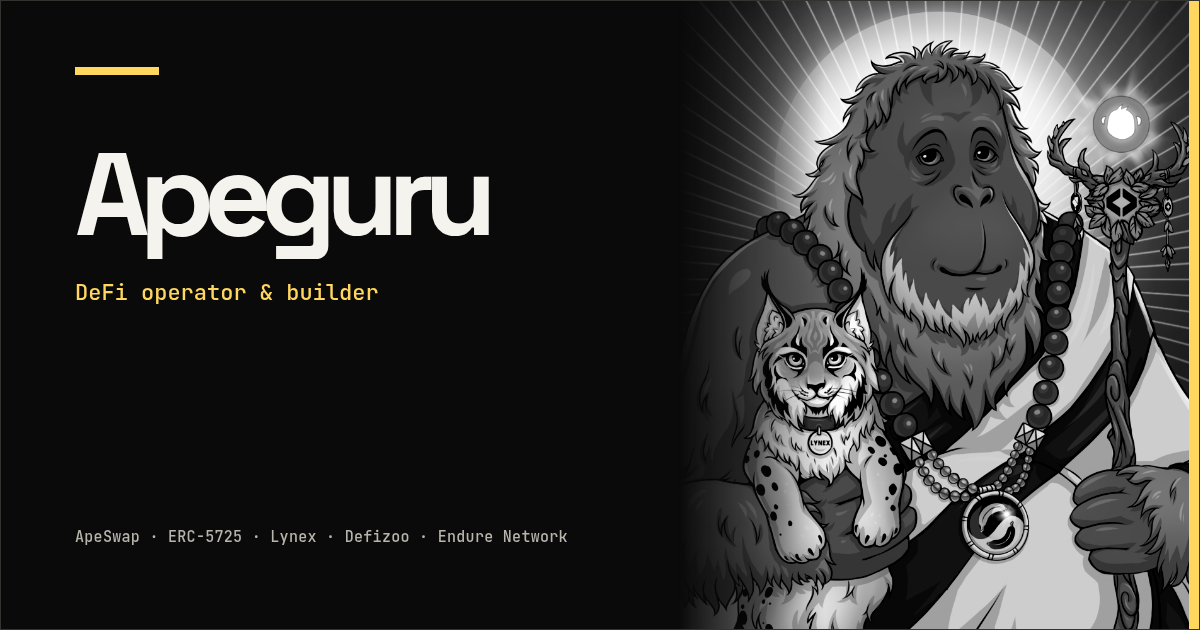
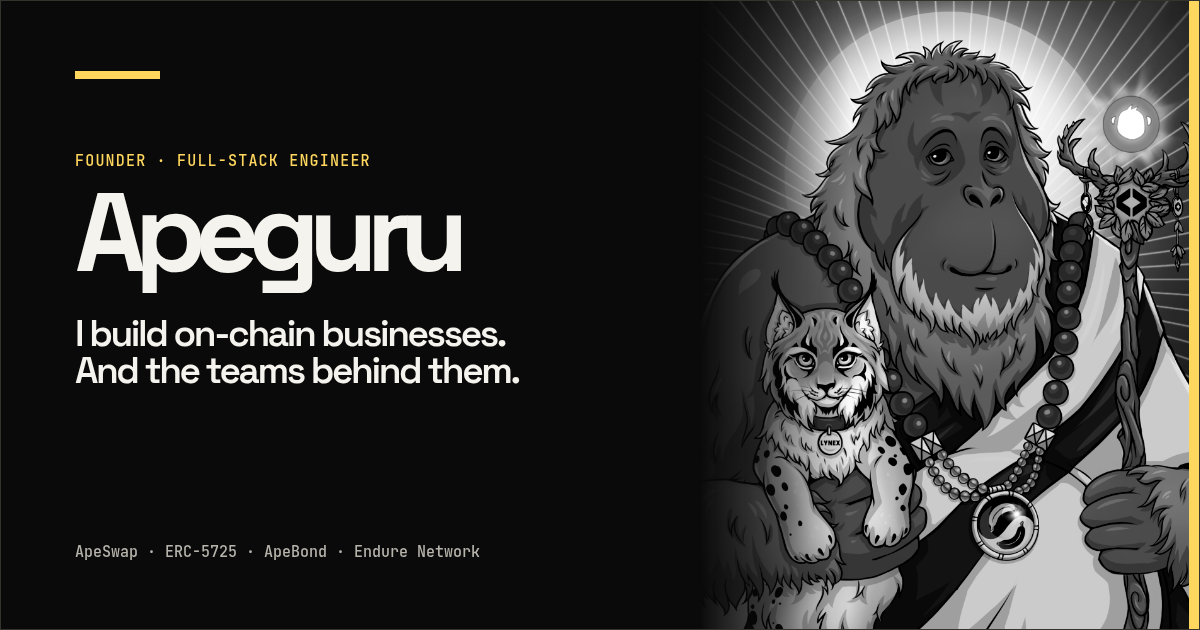
feat: launch founder profile redesign

diff --git a/index.html b/index.html
@@ -3,105 +3,39 @@
 <head>
   <meta charset="utf-8">
   <meta name="viewport" content="width=device-width, initial-scale=1">
-  <title>Apeguru — DeFi operator &amp; builder</title>
-  <meta name="description" content="DeFi operator and builder. ApeSwap co-founder, ERC-5725 author, Lynex CTO, Chief Bullish Officer at Defizoo. Now building Endure Network.">
+  <title>Apeguru | Founder &amp; Full-stack engineer</title>
+  <meta name="description" content="Apeguru is a founder and full-stack engineer. Co-founder of ApeSwap, co-author of ERC-5725, and co-founder and CTO of Endure Network.">
   <meta name="theme-color" content="#0A0A0A">
   <link rel="icon" type="image/svg+xml" href="assets/images/favicon.svg">
   <link rel="icon" type="image/png" sizes="32x32" href="assets/images/favicon-32.png">
   <link rel="preconnect" href="https://fonts.googleapis.com">
   <link rel="preconnect" href="https://fonts.gstatic.com" crossorigin>
-  <link href="https://fonts.googleapis.com/css2?family=JetBrains+Mono:wght@400;500;600&amp;family=Space+Grotesk:wght@400;500;600;700&amp;display=swap" rel="stylesheet">
-  <meta property="og:title" content="Apeguru — DeFi operator &amp; builder">
-  <meta property="og:description" content="DeFi operator and builder. ApeSwap co-founder, ERC-5725 author, Lynex CTO, Chief Bullish Officer at Defizoo. Now building Endure Network.">
-  <meta property="og:type" content="website">
-  <meta property="og:url" content="https://apeguru.dev/">
-  <meta property="og:image" content="https://apeguru.dev/assets/images/og-image.png">
-  <meta name="twitter:card" content="summary_large_image">
-  <meta name="twitter:title" content="Apeguru — DeFi operator &amp; builder">
-  <meta name="twitter:description" content="DeFi operator and builder. ApeSwap co-founder, ERC-5725 author, Lynex CTO, Chief Bullish Officer at Defizoo. Now building Endure Network.">
-  <meta name="twitter:image" content="https://apeguru.dev/assets/images/og-image.png">
+  <link href="https://fonts.googleapis.com/css2?family=JetBrains+Mono:wght@400;500&amp;family=Space+Grotesk:wght@400;500;600;700&amp;display=swap" rel="stylesheet">
+  <meta property="og:title" content="Apeguru — Founder &amp; Full-stack engineer">
+  <meta property="og:description" content="Founder and full-stack engineer. Co-founder of ApeSwap, co-author of ERC-5725, and now building Endure Network.">
+  <meta property="og:type" content="website"><meta property="og:url" content="https://apeguru.dev/"><meta property="og:image" content="https://apeguru.dev/assets/images/og-image.png">
+  <meta name="twitter:card" content="summary_large_image"><meta name="twitter:title" content="Apeguru — Founder &amp; Full-stack engineer"><meta name="twitter:description" content="Founder and full-stack engineer. Co-founder of ApeSwap, co-author of ERC-5725, and now building Endure Network."><meta name="twitter:image" content="https://apeguru.dev/assets/images/og-image.png">
   <link rel="stylesheet" href="assets/css/style.css">
+  <link rel="stylesheet" href="assets/css/typography.css">
 </head>
 <body>
   <a class="skip-link" href="#main">Skip to content</a>
-  <header class="site-header shell">
-    <a class="wordmark" href="#top" aria-label="Apeguru home">apeguru<span>.</span>dev</a>
-    <a class="header-contact" href="https://t.me/apegurus" target="_blank" rel="noopener">Telegram <span aria-hidden="true">↗</span></a>
-  </header>
-
+  <header class="site-header shell"><a class="wordmark" href="#top" aria-label="Apeguru home">apeguru<span>.</span>dev</a><a class="header-email" href="mailto:hello@apeguru.dev">hello@apeguru.dev <span aria-hidden="true">↗</span></a></header>
   <main id="main">
     <section class="hero shell" id="top" aria-labelledby="hero-title">
-      <div class="hero-copy">
-        <p class="eyebrow">DEFI OPERATOR · BUILDER · SINCE 2017</p>
-        <h1 id="hero-title">Apeguru</h1>
-        <p class="hero-subline">I turn complex problems into simple, beautiful, intuitive businesses.<span class="cursor" aria-hidden="true">_</span></p>
-        <div class="hero-actions" aria-label="Contact Apeguru">
-          <a class="button button-primary" href="https://t.me/apegurus" target="_blank" rel="noopener">Telegram <span aria-hidden="true">↗</span></a>
-          <a class="button button-quiet" href="mailto:hello@apeguru.dev">Email <span aria-hidden="true">↗</span></a>
-        </div>
-      </div>
-      <div class="avatar-frame"><img src="assets/images/apeguru.png" alt="Apeguru"></div>
+      <div class="hero-copy"><p class="kicker">Founder · Full-stack engineer</p><h1 id="hero-title">Apeguru</h1><p class="hero-statement">I build on-chain businesses.<br>And the teams behind them.</p><p class="hero-body">I’m a founder and full-stack engineer with a background in marketing. I co-founded ApeSwap, co-authored ERC-5725, and built the first version of ApeBond’s bond protocol.</p><p class="hero-followup">Today, I’m focused on Endure Network as co-founder and CTO.</p><div class="hero-actions"><a class="button button-primary" href="#work">Explore my work <span aria-hidden="true">↓</span></a><a class="button button-quiet" href="mailto:hello@apeguru.dev">Get in touch <span aria-hidden="true">↗</span></a></div></div>
+      <figure class="portrait"><img src="assets/images/apeguru.png" alt="Illustration of Apeguru with a lynx"></figure>
     </section>
-
-    <section class="now" aria-label="Now">
-      <div class="shell"><p><span>NOW /</span> Co-founder &amp; CTO, <a href="http://endure.network/" target="_blank" rel="noopener">Endure Network</a> (risk intelligence on Bittensor) · Chief Bullish Officer, <a href="https://www.defizoo.fi/" target="_blank" rel="noopener">Defizoo</a> · advisor &amp; angel across DeFi.</p></div>
-    </section>
-
-    <section class="section shell" aria-labelledby="track-record">
-      <div class="section-heading"><p class="eyebrow">01 / HISTORY</p><h2 id="track-record">Track record</h2></div>
-      <ol class="timeline">
-        <li class="reveal"><time datetime="2017">2017</time><p>Started out investing and learning about ETH, played with GPU mining on the side. Marketing degree in hand; coder by passion, entrepreneur by heart. The plan was always to stitch the two together.</p></li>
-        <li class="reveal"><time datetime="2020">2020</time><p>Went all in: full-stack blockchain and Solidity developer.</p></li>
-        <li class="reveal"><time datetime="2021">2021</time><p><strong>Co-founder, ApeSwap.</strong> Second only to PancakeSwap during DeFi summer.</p><p class="timeline-stat">$1B TVL · $20B+ volume · $18M revenue</p></li>
-        <li class="reveal"><time datetime="2021">2021</time><p><strong>Liquid Collectibles.</strong> NFT-Fi experiments.</p></li>
-        <li class="reveal"><time datetime="2022">2022</time><p>Authored <a href="https://eips.ethereum.org/EIPS/eip-5725" target="_blank" rel="noopener">ERC-5725</a>, the Transferable Vesting NFT standard (now Final). Built the first version of <a href="https://ape.bond" target="_blank" rel="noopener">ApeBond</a>'s bond protocol on top of it, then handed it to the team as I moved on to new ventures. Still around to support and advise.</p></li>
-        <li class="reveal"><time datetime="2024">2024</time><p><strong>CTO, <a href="https://www.lynex.fi" target="_blank" rel="noopener">Lynex</a>.</strong> A DEX purpose-built as Linea's liquidity engine, with automated liquidity management and real incentive alignment.</p></li>
-        <li class="reveal"><time datetime="2025">2025</time><p><strong>Chief Bullish Officer, <a href="https://www.defizoo.fi/" target="_blank" rel="noopener">Defizoo</a>.</strong> A family of on-chain protocols across 12+ networks.</p></li>
-        <li class="reveal"><time datetime="2026">2026</time><p><strong>Co-founder &amp; CTO, <a href="http://endure.network/" target="_blank" rel="noopener">Endure Network</a>.</strong> Risk intelligence on Bittensor.</p></li>
-      </ol>
-    </section>
-
-    <section class="section shell" aria-labelledby="ecosystem">
-      <div class="section-heading"><p class="eyebrow">02 / ECOSYSTEM</p><h2 id="ecosystem">Ecosystem</h2></div>
-      <div class="ecosystem-grid">
-        <a class="ecosystem-card" href="https://www.defizoo.fi/" target="_blank" rel="noopener"><img src="assets/images/logo-horizontal.svg" alt="Defizoo"><span>Defizoo <b aria-hidden="true">↗</b></span></a>
-        <a class="ecosystem-card" href="https://www.lynex.fi/" target="_blank" rel="noopener"><img src="assets/images/dapp-lynex.svg" alt="Lynex"><span>Lynex <b aria-hidden="true">↗</b></span></a>
-        <a class="ecosystem-card" href="https://www.vaultedge.fi" target="_blank" rel="noopener"><img src="assets/images/dapp-vaultedge.svg" alt="Vaultedge"><span>Vaultedge <b aria-hidden="true">↗</b></span></a>
-        <a class="ecosystem-card" href="https://ape.bond" target="_blank" rel="noopener"><img src="assets/images/dapp-apebond.svg" alt="ApeBond"><span>ApeBond <b aria-hidden="true">↗</b></span></a>
-        <a class="ecosystem-card" href="https://apeswap.finance" target="_blank" rel="noopener"><img src="assets/images/logo-horizontal-margins.webp" alt="ApeSwap"><span>ApeSwap <b aria-hidden="true">↗</b></span></a>
-      </div>
-    </section>
-
-    <section class="section shell" aria-labelledby="help">
-      <div class="section-heading"><p class="eyebrow">03 / HOW I HELP</p><h2 id="help">How I help</h2></div>
-      <div class="help-grid">
-        <article><h3>Build</h3><p>co-founder / CTO seats. Protocol design, team building, shipping.</p></article>
-        <article><h3>Advise</h3><p>DEX deployments, incentive design, go-to-market for DeFi teams.</p></article>
-        <article><h3>Angel</h3><p>early checks in teams building durable infrastructure.</p></article>
-      </div>
-    </section>
-
-    <section class="section shell principles" aria-labelledby="principles">
-      <div class="section-heading"><p class="eyebrow">04 / PRINCIPLES</p><h2 id="principles">Principles</h2></div>
-      <ul>
-        <li>Revenue over vanity.</li><li>Durable systems over hype cycles.</li><li>Lean, autonomous teams over headcount.</li><li>Authenticity over image management.</li><li>Own the hard moments.</li><li>Ship, verify, own it.</li>
-      </ul>
-    </section>
-
-    <section class="contact shell" aria-labelledby="contact">
-      <p class="eyebrow">05 / CONTACT</p>
-      <h2 id="contact">Contact</h2>
-      <div class="contact-links">
-        <a href="https://t.me/apegurus" target="_blank" rel="noopener">Telegram <span>@apegurus</span><b aria-hidden="true">↗</b></a>
-        <a href="mailto:hello@apeguru.dev">Email <span>hello@apeguru.dev</span><b aria-hidden="true">↗</b></a>
-        <a href="https://x.com/apeguru" target="_blank" rel="noopener">X <span>@apeguru</span><b aria-hidden="true">↗</b></a>
-        <a href="https://github.com/Apegurus" target="_blank" rel="noopener">GitHub <span>Apegurus</span><b aria-hidden="true">↗</b></a>
-      </div>
-    </section>
+    <section class="focus shell" aria-labelledby="focus-title"><div class="focus-mark" aria-hidden="true"></div><div class="focus-copy"><p class="kicker">Current focus</p><h2 id="focus-title">Now building Endure Network</h2></div><div class="focus-detail"><p>Financial risk models should earn trust through results. At Endure Network, we’re building infrastructure that lets them compete and measures them against real outcomes.</p><a class="text-link" href="https://endure.network/" target="_blank" rel="noopener">Explore Endure Network <span aria-hidden="true">↗</span></a><p class="affiliation">Alongside this, I’m Chief Bullish Officer at <a href="https://www.defizoo.fi/" target="_blank" rel="noopener">DefiZoo</a>, a family of on-chain protocols.</p></div></section>
+    <section class="work shell" id="work" aria-labelledby="work-title"><div class="section-intro"><p class="kicker">Selected work</p><h2 id="work-title">A few things I’m proud to have built.</h2></div><div class="work-list">
+      <article class="work-piece"><div class="work-title"><p class="work-label">Co-founder</p><h3><a href="https://apeswap.finance" target="_blank" rel="noopener">ApeSwap <span aria-hidden="true">↗</span></a></h3></div><div class="work-copy"><p>Co-founded ApeSwap and helped grow it into a major DeFi ecosystem.</p><dl class="metrics"><div><dt>$1B</dt><dd>peak TVL</dd></div><div><dt>$20B+</dt><dd>trading volume</dd></div><div><dt>$18M</dt><dd>revenue</dd></div></dl></div></article>
+      <article class="work-piece"><div class="work-title"><p class="work-label">Co-author · Protocol builder</p><h3><a href="https://eips.ethereum.org/EIPS/eip-5725" target="_blank" rel="noopener">ERC-5725 <span aria-hidden="true">↗</span></a><br><span>&amp; ApeBond</span></h3></div><div class="work-copy"><p>Co-authored ERC-5725, the finalized Ethereum standard for transferable vesting NFTs. Built the first version of <a href="https://ape.bond" target="_blank" rel="noopener">ApeBond’s bond protocol</a> using that standard, then handed development to the team. I remain involved as an adviser.</p><p class="metric-caption">ApeBond protocol totals</p><dl class="metrics metrics-two"><div><dt>150,000+</dt><dd>bonds sold</dd></div><div><dt>$30M+</dt><dd>bonded value</dd></div></dl></div></article>
+      <article class="work-piece"><div class="work-title"><p class="work-label">CTO</p><h3><a href="https://www.lynex.fi/" target="_blank" rel="noopener">Lynex <span aria-hidden="true">↗</span></a></h3></div><div class="work-copy"><p>Helped build Lynex as Linea’s liquidity engine, combining automated liquidity management with incentives designed to bring protocols and liquidity providers together.</p><dl class="metrics metrics-two"><div><dt><a href="https://defillama.com/protocol/lynex" target="_blank" rel="noopener">$10.2M <span aria-hidden="true">↗</span></a></dt><dd>cumulative protocol revenue</dd></div><div><dt title="Peak: $38,825,063 on June 10, 2024 UTC">$38.8M</dt><dd>peak TVL</dd></div></dl><p class="metric-note"><a href="https://defillama.com/protocol/lynex" target="_blank" rel="noopener">Source: DefiLlama</a>. Revenue includes swap fees and voting incentives distributed to token holders.</p></div></article>
+    </div></section>
+    <section class="leadership shell" aria-labelledby="leadership-title"><div><p class="kicker">Leadership</p><h2 id="leadership-title">Building beyond the code</h2></div><div class="leadership-copy"><p>I’ve helped scale a team from five to forty and navigate years of bear markets. Some of the people I build with today are the same people I came through those years with.</p><p>My work spans smart contracts, backend systems, and the applications people use. But building the product is only part of the job. Bringing together people you trust, and building something worth staying for, matters just as much to me.</p></div></section>
+    <section class="personal shell" aria-labelledby="personal-title"><div class="personal-art"><img src="assets/images/apeguru-1.png" alt="Apeguru illustration"></div><div class="personal-copy"><p class="kicker">Away from the keyboard</p><h2 id="personal-title">A life built around curiosity.</h2><p>I travel with a laptop and a second monitor. Away from them, you’ll usually find me training Muay Thai, hiking, or practicing yoga.</p><p>I studied marketing because I wanted to build businesses. Programming was a passion long before it became my work. I’ve spent my career bringing the two together.</p><p class="background-line">Exploring crypto since 2017. Building full-time as a blockchain developer since 2020.</p></div></section>
+    <section class="contact shell" aria-labelledby="contact-title"><p class="kicker">Contact</p><h2 id="contact-title">Always interested in meeting people building something worthwhile.</h2><div class="contact-bottom"><div><p>I also invest selectively in early-stage teams.</p></div><div class="contact-links"><a class="contact-email" href="mailto:hello@apeguru.dev">hello@apeguru.dev <span aria-hidden="true">↗</span></a><p><a href="https://t.me/apegurus" target="_blank" rel="noopener">Telegram</a><a href="https://x.com/apeguru" target="_blank" rel="noopener">X</a><a href="https://github.com/Apegurus" target="_blank" rel="noopener">GitHub</a></p></div></div></section>
   </main>
-
   <footer class="site-footer shell"><p>Technical business monkey.</p><p>© 2026.</p></footer>
-  <div class="mobile-contact"><a href="https://t.me/apegurus" target="_blank" rel="noopener">Telegram <span aria-hidden="true">↗</span></a><a href="mailto:hello@apeguru.dev">Email <span aria-hidden="true">↗</span></a></div>
-  <script src="assets/js/main.js"></script>
 </body>
 </html>

diff --git a/assets/css/style.css b/assets/css/style.css
@@ -1,1 +1,1 @@
-:root{--bg:#0a0a0a;--text:#f5f3ed;--muted:#b8b5ad;--line:#33332f;--accent:#ffd75e;--shell:1100px}*{box-sizing:border-box}html{scroll-behavior:smooth}body{margin:0;min-width:0;background:var(--bg);color:var(--text);font-family:"Space Grotesk",Arial,sans-serif;font-size:16px;line-height:1.55}.shell{width:min(calc(100% - 40px),var(--shell));margin-inline:auto}.skip-link{position:fixed;top:12px;left:12px;z-index:10;padding:8px 12px;background:var(--accent);color:#111;transform:translateY(-150%)}.skip-link:focus{transform:none}a{color:inherit;text-decoration:none}.site-header{height:75px;display:flex;align-items:center;justify-content:space-between;border-bottom:1px solid var(--line)}.wordmark{font-weight:700;letter-spacing:-.06em;font-size:1.3rem}.wordmark span{color:var(--accent)}.header-contact,.eyebrow,.now p,time,.timeline-stat{font-family:"JetBrains Mono",monospace;font-size:.68rem;letter-spacing:.04em}.header-contact{color:var(--muted);transition:color .2s}.header-contact:hover{color:var(--accent)}.hero{min-height:calc(100svh - 75px);padding:84px 0 74px;display:grid;gap:42px;align-items:center}.eyebrow{margin:0 0 14px;color:var(--accent);font-weight:500}.hero h1,h2,h3,p{margin-top:0}.hero h1{font-size:clamp(4.25rem,16vw,10rem);line-height:.82;letter-spacing:-.095em;margin-bottom:28px}.hero-subline{font-size:clamp(1.25rem,3.2vw,2rem);line-height:1.26;max-width:610px;letter-spacing:-.035em;margin-bottom:30px}.cursor{color:var(--accent);font-family:"JetBrains Mono",monospace;animation:blink 1s step-end infinite}.hero-actions{display:flex;flex-wrap:wrap;gap:10px}.button{font-family:"JetBrains Mono",monospace;font-size:.75rem;display:inline-flex;align-items:center;gap:12px;padding:13px 17px;border:1px solid var(--line);transition:.2s}.button-primary{background:var(--accent);border-color:var(--accent);color:#15130c}.button-primary:hover{background:#ffe58f}.button-quiet:hover{border-color:var(--accent);color:var(--accent)}.avatar-frame{width:min(68vw,380px);justify-self:end;position:relative;border:1px solid var(--line);background:#151515}.avatar-frame:before{content:"PROFILE / APEGURU";position:absolute;z-index:1;top:10px;left:10px;color:var(--accent);font:500 .58rem "JetBrains Mono",monospace;letter-spacing:.05em}.avatar-frame img{width:100%;display:block;mix-blend-mode:luminosity;filter:contrast(1.08)}.now{border-top:1px solid var(--line);border-bottom:1px solid var(--line);padding:19px 0}.now p{margin:0;line-height:1.7;color:var(--muted)}.now p span,.now a{color:var(--accent)}.now a{text-decoration:underline;text-underline-offset:3px}.section{padding:96px 0;border-bottom:1px solid var(--line)}.section-heading{margin-bottom:48px}.section h2,.contact h2{font-size:clamp(2.5rem,7vw,5.5rem);letter-spacing:-.075em;line-height:.9;margin:0}.timeline{padding:0;margin:0;list-style:none;border-left:1px solid var(--line)}.timeline li{position:relative;padding:0 0 42px 28px;display:grid;gap:10px}.timeline li:last-child{padding-bottom:0}.timeline li:before{content:"";position:absolute;width:8px;height:8px;border:1px solid var(--accent);border-radius:50%;background:var(--bg);left:-5px;top:7px}.timeline time{color:var(--accent)}.timeline p{margin:0;max-width:670px;color:var(--muted);font-size:1.05rem}.timeline strong,.timeline a{color:var(--text);font-weight:500}.timeline a{text-decoration:underline;text-decoration-color:var(--accent);text-underline-offset:3px}.timeline-stat{color:var(--accent)!important;font-size:.69rem!important}.ecosystem-grid{display:grid;grid-template-columns:repeat(2,minmax(0,1fr));gap:10px}.ecosystem-card{min-width:0;min-height:145px;padding:18px;border:1px solid var(--line);display:flex;flex-direction:column;justify-content:space-between;background:#101010;transition:transform .2s,border-color .2s}.ecosystem-card:hover{transform:translateY(-4px);border-color:var(--accent)}.ecosystem-card img{max-width:100%;max-height:47px;width:auto;height:auto;object-fit:contain;object-position:left center;filter:grayscale(1) brightness(1.5)}.ecosystem-card span{font:400 .68rem "JetBrains Mono",monospace;color:var(--muted)}.ecosystem-card b,.contact-links b{color:var(--accent);float:right}.help-grid{display:grid;gap:0;border-top:1px solid var(--line)}.help-grid article{padding:28px 0;border-bottom:1px solid var(--line)}.help-grid h3{font-size:1.65rem;letter-spacing:-.05em;margin-bottom:8px}.help-grid p{color:var(--muted);max-width:315px;margin-bottom:0}.principles ul{margin:0;padding:0;list-style:none;display:grid;gap:0}.principles li{padding:17px 0;border-bottom:1px solid var(--line);font-size:clamp(1.25rem,3vw,2.15rem);letter-spacing:-.04em}.principles li:before{content:"/ ";color:var(--accent);font-family:"JetBrains Mono",monospace}.contact{padding:110px 0 92px}.contact h2{max-width:750px;margin-bottom:54px}.contact-links{border-top:1px solid var(--line)}.contact-links a{display:grid;grid-template-columns:minmax(0,1fr) auto 20px;align-items:center;gap:9px;padding:16px 0;border-bottom:1px solid var(--line);font-size:1.08rem;transition:color .2s}.contact-links a:hover{color:var(--accent)}.contact-links span{font:400 .68rem "JetBrains Mono",monospace;color:var(--muted);overflow-wrap:anywhere}.site-footer{border-top:1px solid var(--line);padding:24px 0 88px;display:flex;justify-content:space-between;gap:15px;font:400 .68rem "JetBrains Mono",monospace;color:var(--muted)}.site-footer p{margin:0}.mobile-contact{position:fixed;z-index:5;right:0;bottom:0;left:0;display:grid;grid-template-columns:repeat(2,minmax(0,1fr));border-top:1px solid var(--line);background:rgba(10,10,10,.95);backdrop-filter:blur(12px)}.mobile-contact a{min-width:0;padding:15px 20px;font:500 .72rem "JetBrains Mono",monospace}.mobile-contact a:first-child{border-right:1px solid var(--line)}.mobile-contact span{color:var(--accent);float:right}:focus-visible{outline:2px solid var(--accent);outline-offset:4px}@keyframes blink{50%{opacity:0}}.reveal{opacity:0;transform:translateY(16px);transition:opacity .55s ease,transform .55s ease}.reveal.is-visible{opacity:1;transform:none}@media(min-width:700px){.shell{width:min(calc(100% - 72px),var(--shell))}.hero{grid-template-columns:1.4fr .6fr;gap:55px;padding:100px 0}.avatar-frame{width:min(28vw,350px)}.timeline li{grid-template-columns:120px minmax(0,1fr);gap:28px;padding-left:37px}.ecosystem-grid{grid-template-columns:repeat(4,minmax(0,1fr))}.ecosystem-card{min-height:175px}.help-grid{grid-template-columns:repeat(3,minmax(0,1fr))}.help-grid article{padding:30px 28px 30px 0}.help-grid article+article{padding-left:28px;border-left:1px solid var(--line)}.contact-links a{grid-template-columns:190px minmax(0,1fr) 20px}.site-footer{padding-bottom:28px}.mobile-contact{display:none}}@media(min-width:1000px){.hero{min-height:700px}.section{padding:130px 0}.section-heading{margin-bottom:64px}.contact{padding:145px 0 110px}}@media(prefers-reduced-motion:reduce){html{scroll-behavior:auto}.cursor{animation:none}.reveal{opacity:1;transform:none;transition:none}.ecosystem-card,.button{transition:none}}
+:root{--bg:#0a0a0a;--surface:#11110f;--text:#f5f3ed;--muted:#b7b4ac;--dim:#77756f;--line:#34332e;--accent:#ffd75e;--shell:1160px}*{box-sizing:border-box}html{scroll-behavior:smooth}body{margin:0;background:var(--bg);color:var(--text);font-family:"Space Grotesk",Arial,sans-serif;font-size:17px;line-height:1.58}.shell{width:min(calc(100% - 40px),var(--shell));margin-inline:auto}a{color:inherit;text-decoration:none}.skip-link{position:fixed;top:12px;left:12px;z-index:5;padding:8px 12px;background:var(--accent);color:#16140b;transform:translateY(-150%)}.skip-link:focus{transform:none}.site-header{height:76px;display:flex;align-items:center;justify-content:space-between;border-bottom:1px solid var(--line)}.wordmark{font-size:1.25rem;font-weight:700;letter-spacing:-.06em}.wordmark span,.header-email span,.text-link span{color:var(--accent)}.header-email{font:400 .72rem "JetBrains Mono",monospace;color:var(--muted);transition:color .2s}.header-email:hover,.text-link:hover{color:var(--accent)}.kicker,.work-label{font:500 .69rem "JetBrains Mono",monospace;letter-spacing:.08em;text-transform:uppercase;color:var(--accent);margin:0 0 16px}.hero{display:grid;gap:48px;padding:74px 0 82px}.hero h1,.hero h2,.hero h3,.hero p,h1,h2,h3,p{margin-top:0}.hero h1{margin-bottom:24px;font-size:clamp(4.1rem,16vw,9.2rem);line-height:.81;letter-spacing:-.1em}.hero-statement{max-width:690px;margin-bottom:25px;font-size:clamp(2rem,6.2vw,4.35rem);line-height:.98;letter-spacing:-.07em;font-weight:600}.hero-body{max-width:590px;margin-bottom:16px;color:var(--muted);font-size:1.08rem}.hero-followup{max-width:590px;margin-bottom:31px;font-size:1.08rem}.hero-actions{display:flex;flex-wrap:wrap;gap:10px}.button{display:inline-flex;align-items:center;gap:13px;padding:14px 18px;border:1px solid var(--line);font:500 .74rem "JetBrains Mono",monospace;transition:.2s}.button-primary{background:var(--accent);border-color:var(--accent);color:#17150d}.button-primary:hover{background:#ffe48d}.button-quiet:hover{border-color:var(--accent);color:var(--accent)}.portrait{margin:0;position:relative;width:min(100%,440px);justify-self:end;border:1px solid var(--line);background:#171717}.portrait:before{content:"";position:absolute;z-index:1;top:18px;left:-1px;width:45%;height:1px;background:var(--accent)}.portrait img{display:block;width:100%;filter:grayscale(1) contrast(1.05)}.focus{display:grid;gap:25px;padding:54px 0;border-top:1px solid var(--line);border-bottom:1px solid var(--line)}.focus-mark{width:8px;height:45px;background:var(--accent)}h2{font-size:clamp(2.35rem,7vw,5.25rem);line-height:.94;letter-spacing:-.075em;margin:0}.focus-detail{max-width:630px}.focus-detail>p:first-child{font-size:1.16rem;line-height:1.5;margin-bottom:24px}.text-link{font:500 .75rem "JetBrains Mono",monospace;text-decoration:underline;text-decoration-color:var(--accent);text-underline-offset:5px}.affiliation{margin:33px 0 0;padding-top:19px;border-top:1px solid var(--line);color:var(--muted);font-size:.94rem}.affiliation a{color:var(--text);text-decoration:underline;text-decoration-color:var(--accent);text-underline-offset:3px}.work{padding:82px 0;border-bottom:1px solid var(--line)}.section-intro{max-width:740px;margin-bottom:50px}.work-list{border-top:1px solid var(--line)}.work-piece{padding:34px 0;border-bottom:1px solid var(--line);display:grid;gap:24px}.work-title h3{margin:0;font-size:clamp(2.2rem,7vw,4.6rem);line-height:.9;letter-spacing:-.075em}.work-title h3 a{transition:color .2s}.work-title h3 a:hover,.work-copy a:hover{color:var(--accent)}.work-title h3 span{color:var(--muted)}.work-copy{max-width:570px;color:var(--muted)}.work-copy p{margin:0}.work-copy a{color:var(--text);text-decoration:underline;text-decoration-color:var(--accent);text-underline-offset:3px}.metrics{display:grid;grid-template-columns:repeat(3,1fr);gap:10px;margin:30px 0 0}.metrics div{padding-top:13px;border-top:2px solid var(--accent)}.metrics dt{font-size:clamp(1.55rem,5vw,2.2rem);font-weight:600;letter-spacing:-.06em}.metrics dd{margin:0;color:var(--dim);font:400 .64rem "JetBrains Mono",monospace}.leadership{display:grid;gap:38px;padding:82px 0;border-bottom:1px solid var(--line)}.leadership-copy{max-width:600px}.leadership-copy p{margin:0 0 22px;color:var(--muted);font-size:1.08rem}.leadership-copy p:last-child{margin-bottom:0;color:var(--text)}.personal{display:grid;gap:38px;padding:82px 0;border-bottom:1px solid var(--line)}.personal-art{order:2;width:min(74vw,360px);border:1px solid var(--line);background:var(--surface)}.personal-art img{display:block;width:100%;filter:grayscale(1) contrast(1.05)}.personal-copy{max-width:650px}.personal-copy h2{margin-bottom:30px}.personal-copy>p:not(.kicker){color:var(--muted);margin-bottom:20px;font-size:1.06rem}.personal-copy .background-line{margin-top:34px;padding-top:18px;border-top:1px solid var(--line);color:var(--text);font:400 .71rem "JetBrains Mono",monospace;line-height:1.75}.contact{padding:82px 0}.contact h2{max-width:920px;margin-bottom:48px}.contact-bottom{display:grid;gap:34px;padding-top:22px;border-top:1px solid var(--line)}.contact-bottom>div:first-child{max-width:450px;color:var(--muted)}.contact-email{display:inline-block;color:var(--accent);font-size:clamp(1.7rem,6vw,3.45rem);font-weight:500;letter-spacing:-.06em;overflow-wrap:anywhere}.contact-links p{display:flex;flex-wrap:wrap;gap:18px;margin:20px 0 0}.contact-links p a{color:var(--muted);font:400 .71rem "JetBrains Mono",monospace;text-decoration:underline;text-underline-offset:4px}.contact-links p a:hover{color:var(--accent)}.site-footer{display:flex;justify-content:space-between;gap:15px;padding:23px 0 34px;border-top:1px solid var(--line);color:var(--dim);font:400 .68rem "JetBrains Mono",monospace}.site-footer p{margin:0}:focus-visible{outline:2px solid var(--accent);outline-offset:4px}@media(min-width:700px){.shell{width:min(calc(100% - 72px),var(--shell))}.hero{grid-template-columns:minmax(0,1.22fr) minmax(270px,.78fr);align-items:center;padding:105px 0 110px;gap:60px}.portrait{width:100%}.focus{grid-template-columns:8px minmax(210px,.7fr) minmax(300px,1fr);align-items:start;padding:69px 0;gap:38px}.focus-mark{margin-top:3px}.work{padding:110px 0}.work-piece{grid-template-columns:minmax(250px,.82fr) minmax(320px,1fr);gap:70px;padding:48px 0}.leadership{grid-template-columns:minmax(260px,.9fr) minmax(320px,1fr);gap:70px;padding:110px 0}.personal{grid-template-columns:minmax(250px,.75fr) minmax(330px,1fr);align-items:center;gap:80px;padding:110px 0}.personal-art{order:0;width:100%}.contact{padding:110px 0}.contact-bottom{grid-template-columns:minmax(260px,.8fr) minmax(370px,1fr);gap:70px}.site-footer{padding-bottom:28px}}@media(min-width:1100px){.hero{padding:125px 0 135px}.work,.leadership,.personal,.contact{padding-top:132px;padding-bottom:132px}}@media(prefers-reduced-motion:reduce){html{scroll-behavior:auto}.button,.header-email,.text-link,.work-title h3 a{transition:none}}

diff --git a/assets/images/og-card.html b/assets/images/og-card.html
@@ -1,2 +1,2 @@
 <!doctype html>
-<html lang="en"><head><meta charset="utf-8"><meta name="viewport" content="width=device-width,initial-scale=1"><link rel="preconnect" href="https://fonts.googleapis.com"><link rel="preconnect" href="https://fonts.gstatic.com" crossorigin><link href="https://fonts.googleapis.com/css2?family=JetBrains+Mono:wght@500&amp;family=Space+Grotesk:wght@500;700&amp;display=swap" rel="stylesheet"><style>*{box-sizing:border-box}html,body{margin:0;width:1200px;height:630px;overflow:hidden;background:#0A0A0A;color:#f5f3ed}.card{height:630px;padding:66px 74px;position:relative;overflow:hidden;border:1px solid #33332f;font-family:"Space Grotesk",sans-serif}.rule{width:84px;height:8px;background:#FFD75E;margin-bottom:70px}.name{margin:0;font-size:118px;line-height:.84;letter-spacing:-.09em}.sub{margin:34px 0 0;color:#FFD75E;font:500 22px "JetBrains Mono",monospace}.receipts{position:absolute;left:74px;bottom:67px;color:#b8b5ad;font:500 15px "JetBrains Mono",monospace;letter-spacing:.02em}.avatar{position:absolute;right:0;bottom:0;width:520px;height:630px;object-fit:cover;object-position:center;filter:grayscale(1) contrast(1.08);mask-image:linear-gradient(to right,transparent 0%,black 28%)}.accent{position:absolute;right:0;top:0;width:10px;height:100%;background:#FFD75E}</style></head><body><main class="card"><div class="rule"></div><h1 class="name">Apeguru</h1><p class="sub">DeFi operator &amp; builder</p><p class="receipts">ApeSwap · ERC-5725 · Lynex · Defizoo · Endure Network</p><img class="avatar" src="apeguru.png" alt=""><div class="accent"></div></main></body></html>
+<html lang="en"><head><meta charset="utf-8"><meta name="viewport" content="width=device-width,initial-scale=1"><link rel="preconnect" href="https://fonts.googleapis.com"><link rel="preconnect" href="https://fonts.gstatic.com" crossorigin><link href="https://fonts.googleapis.com/css2?family=JetBrains+Mono:wght@500&amp;family=Space+Grotesk:wght@500;600;700&amp;display=swap" rel="stylesheet"><style>*{box-sizing:border-box}html,body{width:1200px;height:630px;margin:0;overflow:hidden;background:#0a0a0a;color:#f5f3ed}.card{position:relative;height:630px;padding:70px 74px;border:1px solid #34332e;overflow:hidden;font-family:"Space Grotesk",sans-serif}.rule{width:85px;height:8px;background:#ffd75e;margin-bottom:72px}.kicker{margin:0 0 17px;color:#ffd75e;font:500 15px "JetBrains Mono",monospace;text-transform:uppercase;letter-spacing:.08em}.name{margin:0;font-size:112px;line-height:.8;letter-spacing:-.1em}.statement{width:560px;margin:37px 0 0;font-size:37px;font-weight:600;line-height:1;letter-spacing:-.065em}.detail{position:absolute;bottom:67px;left:74px;margin:0;color:#b7b4ac;font:500 15px "JetBrains Mono",monospace}.portrait{position:absolute;right:0;bottom:0;width:500px;height:630px;object-fit:cover;object-position:center;filter:grayscale(1) contrast(1.06);mask-image:linear-gradient(to right,transparent 0%,black 30%)}.accent{position:absolute;right:0;top:0;width:10px;height:100%;background:#ffd75e}</style></head><body><main class="card"><div class="rule"></div><p class="kicker">Founder · Full-stack engineer</p><h1 class="name">Apeguru</h1><p class="statement">I build on-chain businesses.<br>And the teams behind them.</p><p class="detail">ApeSwap · ERC-5725 · ApeBond · Endure Network</p><img class="portrait" src="apeguru.png" alt=""><div class="accent"></div></main></body></html>

diff --git a/assets/css/typography.css b/assets/css/typography.css
@@ -1,0 +1,4 @@
+/* Reading-first typography overrides for the founder-profile composition. */
+:root{--dim:#85837c}
+.header-email,.kicker,.work-label,.button,.text-link,.metrics dd,.personal-copy .background-line,.contact-links p a,.site-footer{font-family:"Space Grotesk",Arial,sans-serif;letter-spacing:0}.header-email{font-size:.85rem}.kicker,.work-label{font-size:.84rem;font-weight:500;text-transform:none}.button,.text-link{font-size:.84rem}.metrics dd{font-size:.72rem}.personal-copy .background-line{font-size:.82rem}.contact-links p a,.site-footer{font-size:.78rem}
+.metric-caption{margin:29px 0 -19px;color:var(--text);font-size:.82rem;font-weight:500}.metrics.metrics-two{grid-template-columns:repeat(2,1fr);max-width:390px}.metrics.metrics-one{grid-template-columns:minmax(0,1fr);max-width:240px}.metrics dt a{color:var(--text);text-decoration:none}.metrics dt a:hover{color:var(--accent)}.metric-note{margin:18px 0 0;color:var(--dim);font-size:.78rem;line-height:1.5}.metric-note a{color:var(--muted);text-decoration:underline;text-decoration-color:var(--accent);text-underline-offset:3px}

diff --git a/DESIGN.md b/DESIGN.md
@@ -1,0 +1,18 @@
+# Design direction — founder portrait
+
+The site should read as a considered introduction from a hands-on founder, not a
+terminal dashboard or a consulting funnel. The composition is editorial: a calm
+hero with the ape portrait as a recognizable signature, then a short progression
+from current work to selected proof, leadership, personal context, and contact.
+
+The existing off-black, warm off-white, restrained banana yellow, Space Grotesk,
+and JetBrains Mono palette remains. Yellow is used for rules, labels, links, and
+small moments of emphasis only. Large typography is reserved for the founder
+statement and section titles; body copy is sized for comfortable reading.
+
+Selected work uses varied editorial panels rather than a repeated card grid:
+ApeSwap leads with protocol metrics, ERC-5725/ApeBond carries the technical
+detail and its own clearly attributed protocol totals, and Lynex forms a concise
+third proof point with sourced protocol metrics. Endure is the visual and
+editorial priority in the current-focus section. The mobile layout stacks into
+clear, generously padded reading blocks with no sticky contact control.

diff --git a/README.md b/README.md
@@ -1,6 +1,5 @@
 # apeguru.dev
-
-Update the Now strip and timeline directly in `index.html`.
-Keep dates, claims, and links in the timeline together for quick review.
-Edit `assets/images/og-card.html`, then screenshot it at 1200×630 to regenerate `og-image.png`.
-Keep both favicon files in `assets/images/` when updating the mark.
+Static founder profile for Apeguru.
+Edit page copy and links in `index.html`; keep protocol metrics attributed to their protocols.
+Update `assets/images/og-card.html`, then render it at 1200×630 to regenerate `og-image.png`.
+The favicon source and PNG fallback live in `assets/images/`.
